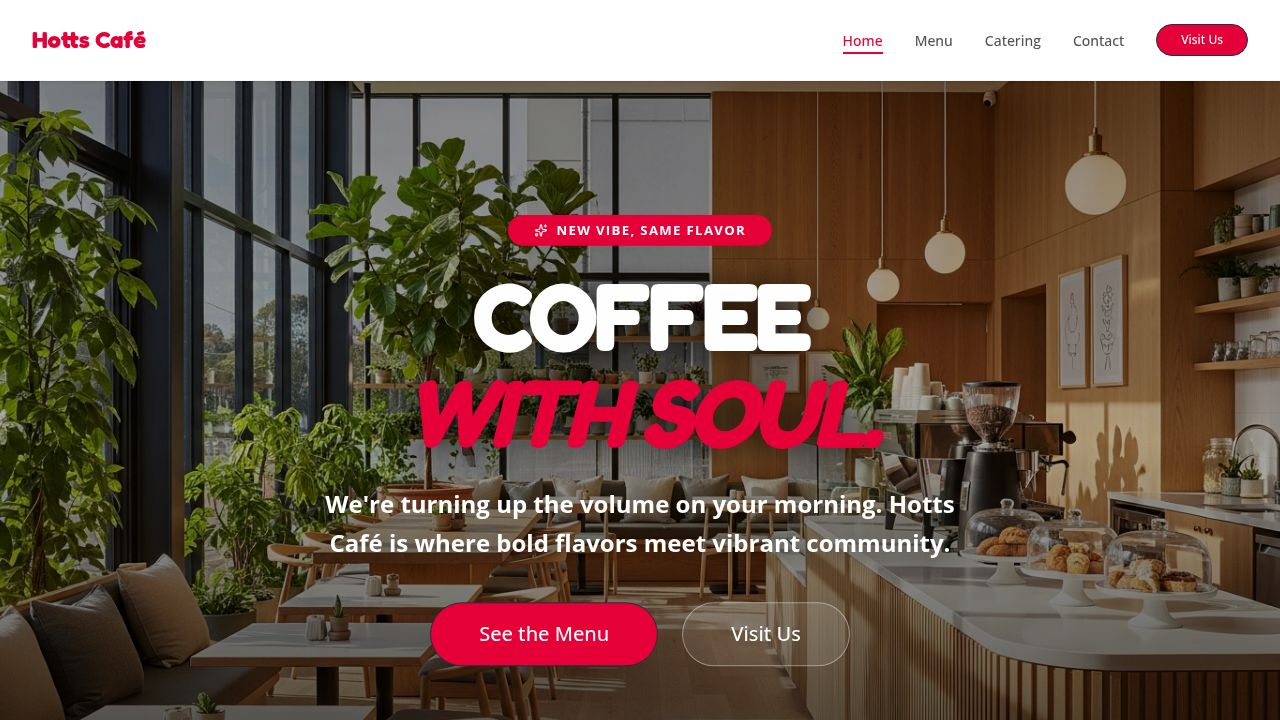
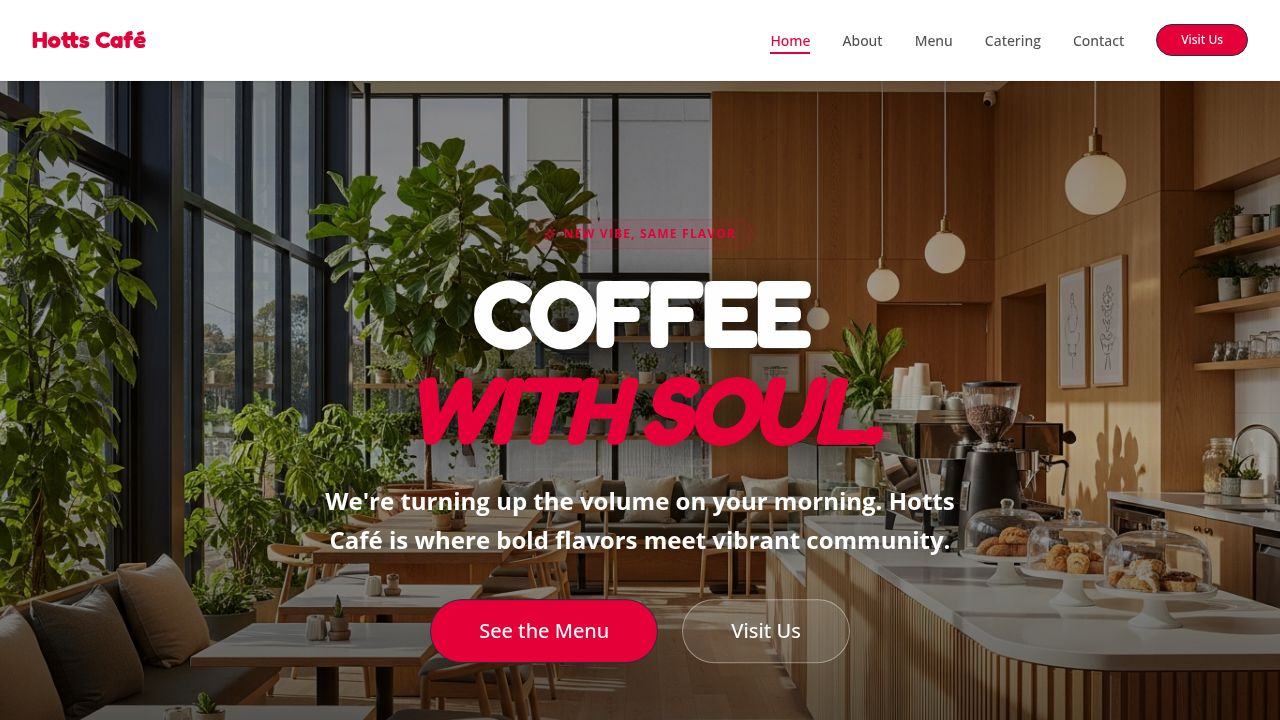
Improve website's mobile responsiveness and visual appeal
Adjust text sizes, padding, spacing, and element scaling across various pages (Home, About, Catering, Contact, Menu) to enhance mobile user experience and visual consistency.

Replit-Commit-Author: Agent
Replit-Commit-Session-Id: 028c62c3-67fe-4d94-9bdb-85b350496750
Replit-Commit-Checkpoint-Type: full_checkpoint
Replit-Commit-Event-Id: ceda0b14-a740-4783-80b4-ef98240c9f55
Replit-Commit-Screenshot-Url: https://storage.googleapis.com/screenshot-production-us-central1/c4af5781-d439-4a2f-b30c-cc76b1be9f17/028c62c3-67fe-4d94-9bdb-85b350496750/beW1Ipa
Replit-Helium-Checkpoint-Created: true

diff --git a/client/src/pages/home.tsx b/client/src/pages/home.tsx
@@ -48,21 +48,21 @@ export default function Home() {
             <BadgeLocal className="mb-6 bg-primary text-white border-none px-6 drop-shadow-xl scale-110">
               <Sparkles className="w-3 h-3 mr-2" /> NEW VIBE, SAME FLAVOR
             </BadgeLocal>
-            <h1 className="font-heading text-6xl md:text-8xl font-black leading-none mb-6 text-white tracking-tighter uppercase drop-shadow-[0_4px_20px_rgba(0,0,0,0.9)]">
+            <h1 className="font-heading text-5xl sm:text-6xl md:text-8xl font-black leading-none mb-6 text-white tracking-tighter uppercase drop-shadow-[0_4px_20px_rgba(0,0,0,0.9)]">
               COFFEE <br />
               <span className="text-primary italic">with soul.</span>
             </h1>
-            <p className="text-lg md:text-2xl text-white mb-10 max-w-2xl mx-auto font-bold leading-relaxed drop-shadow-[0_2px_15px_rgba(0,0,0,0.9)]">
+            <p className="text-base sm:text-lg md:text-2xl text-white mb-10 max-w-2xl mx-auto font-bold leading-relaxed drop-shadow-[0_2px_15px_rgba(0,0,0,0.9)] px-4">
               We're turning up the volume on your morning. Hotts Café is where bold flavors meet vibrant community.
             </p>
-            <div className="flex flex-col sm:flex-row gap-6 justify-center">
+            <div className="flex flex-col sm:flex-row gap-4 sm:gap-6 justify-center px-6">
               <Link href="/menu">
-                <Button size="lg" className="bg-primary hover:bg-primary/90 text-white rounded-full px-12 h-16 text-xl shadow-2xl hover:scale-105 transition-all cursor-pointer">
+                <Button size="lg" className="w-full sm:w-auto bg-primary hover:bg-primary/90 text-white rounded-full px-12 h-14 sm:h-16 text-lg sm:text-xl shadow-2xl hover:scale-105 transition-all cursor-pointer">
                   See the Menu
                 </Button>
               </Link>
               <Link href="/contact">
-                <Button size="lg" variant="outline" className="bg-white/10 hover:bg-white/20 text-white border-white/40 rounded-full px-12 h-16 text-xl backdrop-blur-md hover:scale-105 transition-all cursor-pointer">
+                <Button size="lg" variant="outline" className="w-full sm:w-auto bg-white/10 hover:bg-white/20 text-white border-white/40 rounded-full px-12 h-14 sm:h-16 text-lg sm:text-xl backdrop-blur-md hover:scale-105 transition-all cursor-pointer">
                   Visit Us
                 </Button>
               </Link>
@@ -72,21 +72,21 @@ export default function Home() {
       </section>
 
       {/* Intro Section - Not Just A Café. A Movement. */}
-      <section className="py-24 bg-white overflow-hidden">
+      <section className="py-16 sm:py-24 bg-white overflow-hidden">
         <div className="max-w-7xl mx-auto px-4 sm:px-6 lg:px-8">
-          <div className="flex flex-col lg:flex-row items-center gap-16">
+          <div className="flex flex-col lg:flex-row items-center gap-12 lg:gap-16">
             <motion.div 
               initial={{ opacity: 0, x: -30 }}
               whileInView={{ opacity: 1, x: 0 }}
               viewport={{ once: true }}
-              className="w-full lg:w-1/2 relative"
+              className="w-full lg:w-1/2 relative px-4 sm:px-0"
             >
-              <div className="relative group">
+              <div className="relative group max-w-[320px] sm:max-w-[400px] mx-auto lg:mx-0">
                 <div className="absolute -inset-4 bg-primary/5 rounded-[2.5rem] rotate-2 transition-transform group-hover:rotate-1"></div>
                 <img 
                   src={introSectionImg} 
                   alt="Barista pouring latte art" 
-                  className="relative rounded-[3rem] shadow-2xl w-full object-cover aspect-[3/4] border-8 border-white max-w-[400px] mx-auto"
+                  className="relative rounded-[3rem] shadow-2xl w-full object-cover aspect-[3/4] border-8 border-white"
                 />
               </div>
             </motion.div>
@@ -95,9 +95,9 @@ export default function Home() {
               initial={{ opacity: 0, x: 30 }}
               whileInView={{ opacity: 1, x: 0 }}
               viewport={{ once: true }}
-              className="w-full lg:w-1/2"
+              className="w-full lg:w-1/2 text-center lg:text-left"
             >
-              <h2 className="font-heading text-5xl md:text-6xl font-black text-[#201839] mb-4 leading-[1.1]">
+              <h2 className="font-heading text-4xl sm:text-5xl md:text-6xl font-black text-[#201839] mb-4 leading-[1.1]">
                 Not Just A Café.<br />
                 <span className="relative inline-block">
                   A Movement.
@@ -105,11 +105,11 @@ export default function Home() {
                 </span>
               </h2>
               
-              <p className="text-black/70 text-lg md:text-xl leading-relaxed mb-10 max-w-xl">
+              <p className="text-black/70 text-base sm:text-lg md:text-xl leading-relaxed mb-10 max-w-xl mx-auto lg:mx-0">
                 At Hotts Café, we believe a café is more than just a place to grab a cup of coffee. It is a space where community comes together. Whether you prefer something light and wholesome or a hearty meal to fuel your day, we have options to suit every appetite.
               </p>
 
-              <div className="grid grid-cols-1 sm:grid-cols-2 gap-6">
+              <div className="grid grid-cols-1 sm:grid-cols-2 gap-4 sm:gap-6">
                 <div className="p-6 rounded-3xl bg-[#FFF5F6] border border-primary/5 group hover:bg-white hover:shadow-xl transition-all duration-300">
                   <div className="w-12 h-12 rounded-2xl bg-white shadow-sm flex items-center justify-center mb-4 group-hover:scale-110 transition-transform">
                     <Coffee className="w-6 h-6 text-primary" />
@@ -137,17 +137,17 @@ export default function Home() {
 
 
       {/* Floating Menu Highlights */}
-      <section className="py-32 bg-background relative overflow-hidden">
+      <section className="py-16 sm:py-32 bg-background relative overflow-hidden">
         <div className="absolute top-0 left-0 w-full h-20 bg-gradient-to-b from-white to-transparent"></div>
         
         <div className="max-w-7xl mx-auto px-4 sm:px-6 lg:px-8 relative z-10">
-          <div className="text-center mb-16">
-            <h2 className="font-heading text-5xl md:text-6xl font-black text-primary mb-4">
+          <div className="text-center mb-10 sm:mb-16">
+            <h2 className="font-heading text-4xl sm:text-5xl md:text-6xl font-black text-primary mb-4">
               POPULAR <span className="text-primary opacity-50 italic">PICKS</span>
             </h2>
           </div>
 
-          <div className="grid grid-cols-2 md:grid-cols-3 lg:grid-cols-6 gap-4 md:gap-6">
+          <div className="grid grid-cols-1 sm:grid-cols-2 md:grid-cols-3 lg:grid-cols-6 gap-6 sm:gap-4 md:gap-6">
             {[
               { img: burgerLot, title: "The Lot", price: "$15.50", color: "bg-primary" },
               { img: chickenParma, title: "Chicken Parma", price: "$18.50", color: "bg-secondary" },
@@ -222,39 +222,39 @@ export default function Home() {
       </section>
 
       {/* Vibrant CTA */}
-      <section className="py-32">
+      <section className="py-16 sm:py-32">
         <div className="max-w-7xl mx-auto px-4 sm:px-6 lg:px-8">
-          <div className="bg-primary rounded-[4rem] p-12 md:p-24 text-center text-white relative overflow-hidden shadow-3xl">
+          <div className="bg-primary rounded-[2.5rem] sm:rounded-[4rem] p-8 sm:p-12 md:p-24 text-center text-white relative overflow-hidden shadow-3xl">
              <div className="absolute inset-0 bg-white/10 mix-blend-overlay"></div>
              <div className="absolute -top-24 -right-24 w-64 h-64 bg-accent rounded-full blur-3xl opacity-50"></div>
              
              <div className="relative z-10">
-               <h2 className="font-heading text-5xl md:text-7xl text-secondary font-black mb-8 leading-none">
+               <h2 className="font-heading text-3xl sm:text-5xl md:text-7xl text-secondary font-black mb-6 sm:mb-8 leading-none">
                  <span className="opacity-60">BE THERE.</span> <br />
                  <span className="">AT HOTTS CAFÉ.</span>
                </h2>
-               <p className="text-xl md:text-2xl mb-12 max-w-2xl mx-auto font-medium text-white/90">
+               <p className="text-lg sm:text-xl md:text-2xl mb-8 sm:mb-12 max-w-2xl mx-auto font-medium text-white/90">
                  Connect, recharge, and enjoy the experience. We look forward to welcoming you soon.
                </p>
-            <div className="flex flex-wrap justify-center gap-10">
-                 <div className="flex items-center gap-4 bg-white/10 px-8 py-4 rounded-full backdrop-blur-md">
-                   <Clock className="w-8 h-8 text-secondary" />
+            <div className="flex flex-col sm:flex-row flex-wrap justify-center gap-6 sm:gap-10">
+                 <div className="flex items-center gap-4 bg-white/10 px-6 sm:px-8 py-3 sm:py-4 rounded-full backdrop-blur-md justify-center sm:justify-start">
+                   <Clock className="w-6 h-6 sm:w-8 sm:h-8 text-secondary" />
                    <div className="text-left">
-                     <p className="font-black">EARLY BIRDS</p>
-                     <p className="text-sm opacity-80">5:00 AM - 2:30 PM</p>
+                     <p className="font-black text-sm sm:text-base uppercase tracking-wider">EARLY BIRDS</p>
+                     <p className="text-xs sm:text-sm opacity-80">5:00 AM - 2:30 PM</p>
                    </div>
                  </div>
-                 <div className="flex items-center gap-4 bg-white/20 px-8 py-4 rounded-full backdrop-blur-md">
-                   <Phone className="w-8 h-8 text-primary" />
+                 <div className="flex items-center gap-4 bg-white/20 px-6 sm:px-8 py-3 sm:py-4 rounded-full backdrop-blur-md justify-center sm:justify-start">
+                   <Phone className="w-6 h-6 sm:w-8 sm:h-8 text-primary" />
                    <div className="text-left">
-                     <p className="font-black">HOTLINE</p>
-                     <p className="text-sm opacity-80">9369 6504</p>
+                     <p className="font-black text-sm sm:text-base uppercase tracking-wider">HOTLINE</p>
+                     <p className="text-xs sm:text-sm opacity-80">9369 6504</p>
                    </div>
                  </div>
               
                </div>
-               <h2 className="font-heading text-4xl md:text-6xl text-secondary font-black m-8 leading-none">
-                  <span>Delivery at <span className="text-5xl">$3</span></span> <br />
+               <h2 className="font-heading text-3xl sm:text-4xl md:text-6xl text-secondary font-black mt-8 sm:m-8 leading-none">
+                  <span>Delivery at <span className="text-4xl sm:text-5xl">$3</span></span> <br />
                 </h2>
              </div>
           </div>

diff --git a/client/src/pages/about.tsx b/client/src/pages/about.tsx
@@ -26,28 +26,29 @@ export default function About() {
             animate={{ opacity: 1, y: 0 }}
             className="max-w-3xl mx-auto"
           >
-            <span className="text-primary font-bold tracking-widest uppercase text-xs mb-4 block">Our Story</span>
-            <h1 className="font-heading text-5xl md:text-7xl font-black text-white mb-6 uppercase tracking-tighter">
-              More Than Just <span className="text-primary italic text-6xl md:text-8xl">Coffee.</span>
+            <span className="text-primary font-bold tracking-widest uppercase text-[10px] sm:text-xs mb-3 sm:mb-4 block">Our Story</span>
+            <h1 className="font-heading text-4xl sm:text-5xl md:text-7xl font-black text-white mb-6 uppercase tracking-tighter leading-tight">
+              More Than Just <br className="sm:hidden" /> <span className="text-primary italic text-5xl sm:text-6xl md:text-8xl">Coffee.</span>
             </h1>
           </motion.div>
         </div>
       </section>
 
       {/* Philosophy Section */}
-      <section className="py-24 bg-white">
+      <section className="py-16 sm:py-24 bg-white">
         <div className="max-w-7xl mx-auto px-4 sm:px-6 lg:px-8">
-          <div className="grid md:grid-cols-2 gap-16 items-center">
+          <div className="grid lg:grid-cols-2 gap-12 lg:gap-16 items-center">
             <motion.div
               initial={{ opacity: 0, x: -20 }}
               whileInView={{ opacity: 1, x: 0 }}
               viewport={{ once: true }}
+              className="text-center lg:text-left"
             >
-              <h2 className="font-heading text-4xl md:text-5xl font-black text-[#201839] mb-8 uppercase tracking-tight leading-none">
+              <h2 className="font-heading text-3xl sm:text-4xl md:text-5xl font-black text-[#201839] mb-6 sm:mb-8 uppercase tracking-tight leading-none">
                 A Space Where <br />
                 <span className="text-primary italic">Community</span> Comes Together
               </h2>
-              <div className="space-y-6 text-black/70 text-lg leading-relaxed">
+              <div className="space-y-4 sm:space-y-6 text-black/70 text-base sm:text-lg leading-relaxed max-w-xl mx-auto lg:mx-0">
                 <p>
                   At Hotts Café, we believe a café is more than just a place to grab a cup of coffee. It is a space where community comes together.
                 </p>
@@ -57,26 +58,26 @@ export default function About() {
               </div>
             </motion.div>
             
-            <div className="grid grid-cols-2 gap-6">
-              <div className="p-8 bg-primary/5 rounded-[2rem] border border-primary/10 text-center">
-                <Coffee className="w-10 h-10 text-primary mx-auto mb-4" />
-                <h4 className="font-black text-[#201839] uppercase text-sm tracking-widest mb-2">Quality</h4>
-                <p className="text-xs text-black/60 font-medium">Brewed with passion using the finest beans.</p>
+            <div className="grid grid-cols-2 gap-4 sm:gap-6">
+              <div className="p-6 sm:p-8 bg-primary/5 rounded-[1.5rem] sm:rounded-[2rem] border border-primary/10 text-center">
+                <Coffee className="w-8 h-8 sm:w-10 sm:h-10 text-primary mx-auto mb-3 sm:mb-4" />
+                <h4 className="font-black text-[#201839] uppercase text-[10px] sm:text-sm tracking-widest mb-2">Quality</h4>
+                <p className="text-[10px] sm:text-xs text-black/60 font-medium leading-tight">Brewed with passion using the finest beans.</p>
               </div>
-              <div className="p-8 bg-secondary/5 rounded-[2rem] border border-secondary/10 text-center mt-8">
-                <Heart className="w-10 h-10 text-secondary mx-auto mb-4" />
-                <h4 className="font-black text-[#201839] uppercase text-sm tracking-widest mb-2">Passion</h4>
-                <p className="text-xs text-black/60 font-medium">Every meal prepared with care and love.</p>
+              <div className="p-6 sm:p-8 bg-secondary/5 rounded-[1.5rem] sm:rounded-[2rem] border border-secondary/10 text-center mt-4 sm:mt-8">
+                <Heart className="w-8 h-8 sm:w-10 sm:h-10 text-secondary mx-auto mb-3 sm:mb-4" />
+                <h4 className="font-black text-[#201839] uppercase text-[10px] sm:text-sm tracking-widest mb-2">Passion</h4>
+                <p className="text-[10px] sm:text-xs text-black/60 font-medium leading-tight">Every meal prepared with care and love.</p>
               </div>
-              <div className="p-8 bg-accent/5 rounded-[2rem] border border-accent/10 text-center">
-                <Users className="w-10 h-10 text-accent mx-auto mb-4" />
-                <h4 className="font-black text-[#201839] uppercase text-sm tracking-widest mb-2">Community</h4>
-                <p className="text-xs text-black/60 font-medium">A welcoming space for everyone to gather.</p>
+              <div className="p-6 sm:p-8 bg-accent/5 rounded-[1.5rem] sm:rounded-[2rem] border border-accent/10 text-center">
+                <Users className="w-8 h-8 sm:w-10 sm:h-10 text-accent mx-auto mb-3 sm:mb-4" />
+                <h4 className="font-black text-[#201839] uppercase text-[10px] sm:text-sm tracking-widest mb-2">Community</h4>
+                <p className="text-[10px] sm:text-xs text-black/60 font-medium leading-tight">A welcoming space for everyone to gather.</p>
               </div>
-              <div className="p-8 bg-primary/5 rounded-[2rem] border border-primary/10 text-center mt-8">
-                <Clock className="w-10 h-10 text-primary mx-auto mb-4" />
-                <h4 className="font-black text-[#201839] uppercase text-sm tracking-widest mb-2">Fresh</h4>
-                <p className="text-xs text-black/60 font-medium">Quality ingredients served daily from 5am.</p>
+              <div className="p-6 sm:p-8 bg-primary/5 rounded-[1.5rem] sm:rounded-[2rem] border border-primary/10 text-center mt-4 sm:mt-8">
+                <Clock className="w-8 h-8 sm:w-10 sm:h-10 text-primary mx-auto mb-3 sm:mb-4" />
+                <h4 className="font-black text-[#201839] uppercase text-[10px] sm:text-sm tracking-widest mb-2">Fresh</h4>
+                <p className="text-[10px] sm:text-xs text-black/60 font-medium leading-tight">Quality ingredients served daily from 5am.</p>
               </div>
             </div>
           </div>
@@ -91,9 +92,9 @@ export default function About() {
               initial={{ opacity: 0, x: 30 }}
               whileInView={{ opacity: 1, x: 0 }}
               viewport={{ once: true }}
-              className="w-full lg:w-1/2"
+              className="w-full lg:w-1/2 px-4 sm:px-0"
             >
-              <div className="relative">
+              <div className="relative max-w-[500px] mx-auto lg:ml-auto">
                 <div className="absolute -inset-4 bg-secondary/5 rounded-[3rem] -rotate-2"></div>
                 <img 
                   src={experienceImg} 
@@ -107,15 +108,15 @@ export default function About() {
               initial={{ opacity: 0, x: -30 }}
               whileInView={{ opacity: 1, x: 0 }}
               viewport={{ once: true }}
-              className="w-full lg:w-1/2"
+              className="w-full lg:w-1/2 text-center lg:text-left"
             >
-              <h2 className="font-heading text-4xl md:text-5xl font-black text-[#201839] mb-6 uppercase tracking-tight leading-none">
+              <h2 className="font-heading text-3xl sm:text-4xl md:text-5xl font-black text-[#201839] mb-6 uppercase tracking-tight leading-none">
                 The <span className="text-secondary italic">Culinary</span> Craft
               </h2>
-              <p className="text-black/70 text-lg leading-relaxed mb-8">
+              <p className="text-black/70 text-base sm:text-lg leading-relaxed mb-8 max-w-xl mx-auto lg:mx-0">
                 Our kitchen is the heart of Hotts Café. We take pride in sourcing the freshest local ingredients to create dishes that don't just fill you up, but fuel your soul. From our signature steak sandwiches to our vibrant seasonal salads, every plate is a testament to our commitment to quality.
               </p>
-              <ul className="space-y-4">
+              <ul className="space-y-4 max-w-md mx-auto lg:mx-0 text-left">
                 {[
                   "Sourced from local Hoppers Crossing suppliers",
                   "Chef-prepared daily specials",

diff --git a/client/src/pages/catering.tsx b/client/src/pages/catering.tsx
@@ -78,7 +78,7 @@ export default function Catering() {
                 initial={{ opacity: 0, y: 20 }}
                 animate={{ opacity: 1, y: 0 }}
                 transition={{ delay: 0.1 }}
-                className="font-heading text-5xl md:text-7xl font-black text-white mb-6 uppercase tracking-tight"
+                className="font-heading text-4xl sm:text-5xl md:text-7xl font-black text-white mb-6 uppercase tracking-tight leading-tight"
               >
                 {slides[currentSlide].title}
               </motion.h1>
@@ -105,18 +105,19 @@ export default function Catering() {
           </div>
         </section>
 
-        <div className="max-w-7xl mx-auto px-4 sm:px-6 lg:px-8 mt-24">
-            <div className="grid md:grid-cols-2 gap-16 items-center mb-24">
+        <div className="max-w-7xl mx-auto px-4 sm:px-6 lg:px-8 mt-16 sm:mt-24">
+            <div className="flex flex-col lg:grid lg:grid-cols-2 gap-12 lg:gap-16 items-center mb-16 sm:mb-24 text-center lg:text-left">
               <motion.div
                 initial={{ opacity: 0, x: -20 }}
                 whileInView={{ opacity: 1, x: 0 }}
                 viewport={{ once: true }}
+                className="w-full"
               >
-                <h2 className="font-heading text-4xl font-black text-[#201839] mb-6">Professional Catering <br/><span className="text-primary italic">for every occasion.</span></h2>
-                <p className="text-black/60 text-lg leading-relaxed mb-8">
+                <h2 className="font-heading text-3xl sm:text-4xl font-black text-[#201839] mb-6">Professional Catering <br/><span className="text-primary italic">for every occasion.</span></h2>
+                <p className="text-black/60 text-base sm:text-lg leading-relaxed mb-8 max-w-xl mx-auto lg:mx-0">
                   Whether you're hosting a corporate meeting, a private function, or just need to feed a hungry crowd, Hotts Café provides high-quality catering solutions tailored to your needs.
                 </p>
-                <div className="space-y-4">
+                <div className="space-y-4 max-w-md mx-auto lg:mx-0 text-left">
                   {[
                     "Gourmet Sandwich & Wrap Platters",
                     "Hot Food & Finger Food Selections",

diff --git a/client/src/pages/menu.tsx b/client/src/pages/menu.tsx
@@ -14,8 +14,8 @@ export default function Menu() {
         <div className="max-w-5xl mx-auto text-center mb-12 relative">
           <div className="absolute -top-10 -left-10 w-48 h-48 bg-primary/10 rounded-full blur-3xl -z-10"></div>
           <span className="text-secondary font-black tracking-widest uppercase text-xs mb-2 block">Flavor Town</span>
-          <h1 className="font-heading text-5xl md:text-7xl font-black text-primary leading-tight tracking-tighter">
-            THE <br /><span className="text-primary opacity-50 italic">LINEUP</span>
+          <h1 className="font-heading text-4xl sm:text-5xl md:text-7xl font-black text-primary leading-tight tracking-tighter">
+            THE <br /><span className="text-primary opacity-50 italic text-5xl sm:text-6xl md:text-8xl">LINEUP</span>
           </h1>
         </div>
 
@@ -41,7 +41,7 @@ export default function Menu() {
                   initial={{ opacity: 0, y: 10 }}
                   animate={{ opacity: 1, y: 0 }}
                   transition={{ duration: 0.4 }}
-                  className="bg-white rounded-[2rem] p-8 md:p-12 shadow-xl border border-neutral-100 relative"
+                  className="bg-white rounded-[1.5rem] sm:rounded-[2rem] p-6 sm:p-8 md:p-12 shadow-xl border border-neutral-100 relative"
                 >
                   <div className="absolute -top-4 -right-4 w-20 h-20 bg-accent rounded-full flex items-center justify-center rotate-12 shadow-md">
                     <span className="font-black text-accent-foreground text-[10px] text-center leading-none uppercase">FRESH<br/>DAILY</span>

diff --git a/client/src/pages/contact.tsx b/client/src/pages/contact.tsx
@@ -17,7 +17,7 @@ export default function Contact() {
       <div className="bg-white text-black py-16 px-4 relative overflow-hidden border-b border-neutral-100">
         <div className="max-w-4xl mx-auto text-center relative z-10">
           <span className="text-primary font-bold tracking-widest uppercase text-xs mb-3 block">Get in Touch</span>
-          <h1 className="font-heading text-4xl md:text-5xl font-black text-[#201839] mb-4 uppercase tracking-tighter">
+          <h1 className="font-heading text-4xl sm:text-5xl font-black text-[#201839] mb-4 uppercase tracking-tighter leading-tight">
             Contact <span className="text-primary italic">Us</span>
           </h1>
           <p className="text-black/60 max-w-xl mx-auto leading-relaxed text-base md:text-lg">
@@ -101,7 +101,7 @@ export default function Contact() {
           </div>
 
           {/* Contact Form with Captcha */}
-          <div className="bg-neutral-50 rounded-[3rem] p-8 md:p-12 border border-neutral-100 shadow-sm">
+          <div className="bg-neutral-50 rounded-[2rem] sm:rounded-[3rem] p-6 sm:p-8 md:p-12 border border-neutral-100 shadow-sm">
             <h2 className="font-heading text-3xl font-black text-[#201839] mb-8 uppercase tracking-tight">
               Send a <span className="text-primary italic">Message</span>
             </h2>
